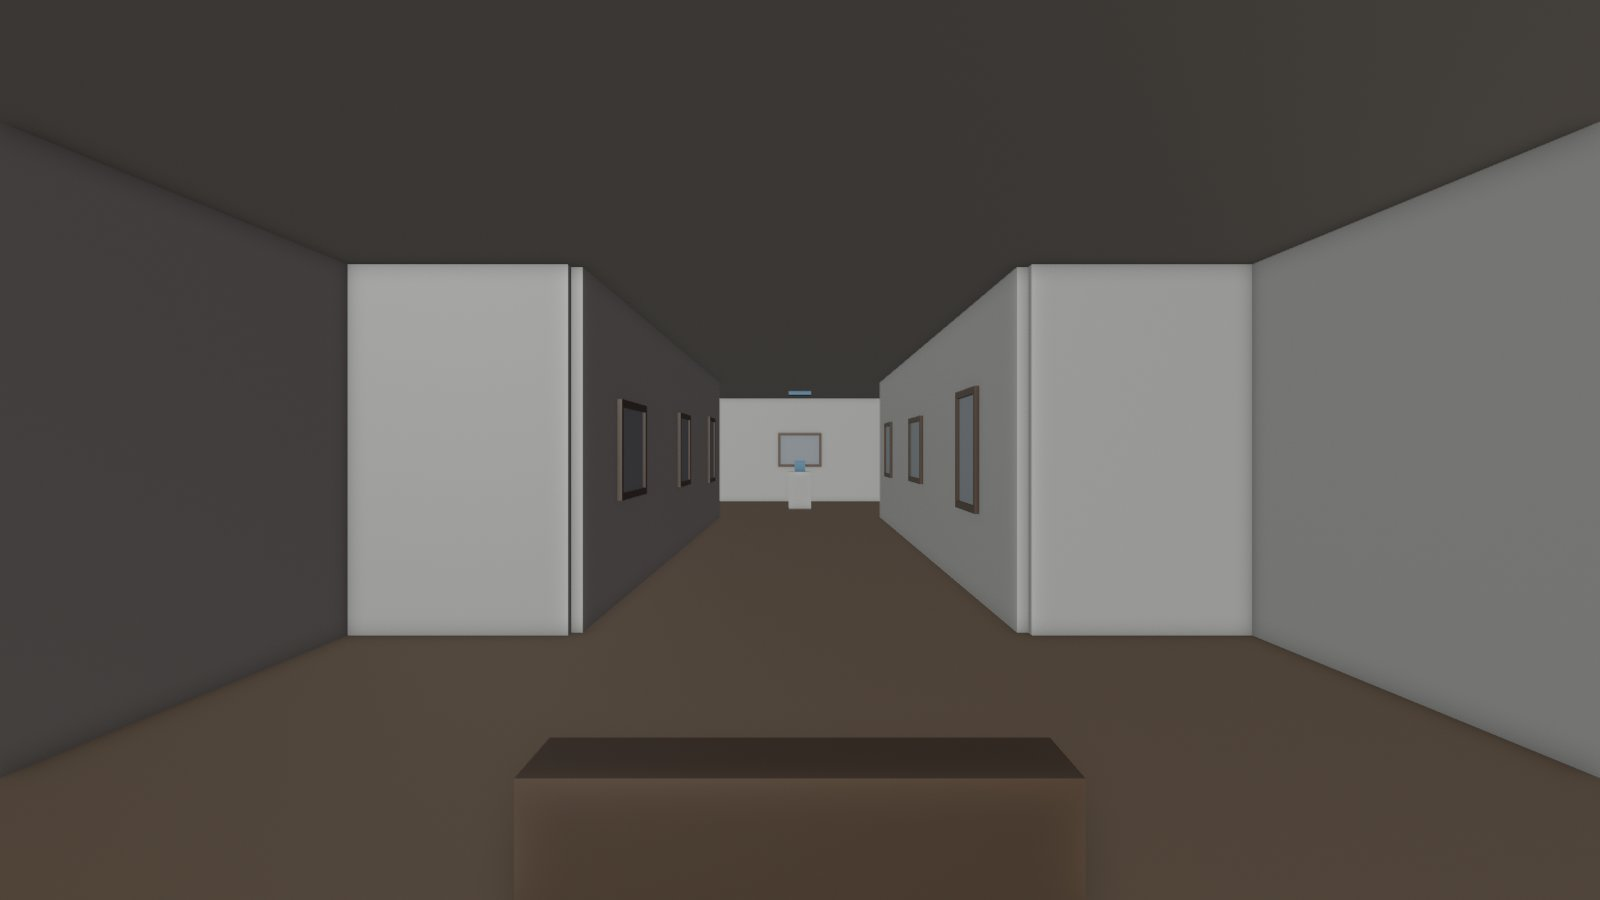
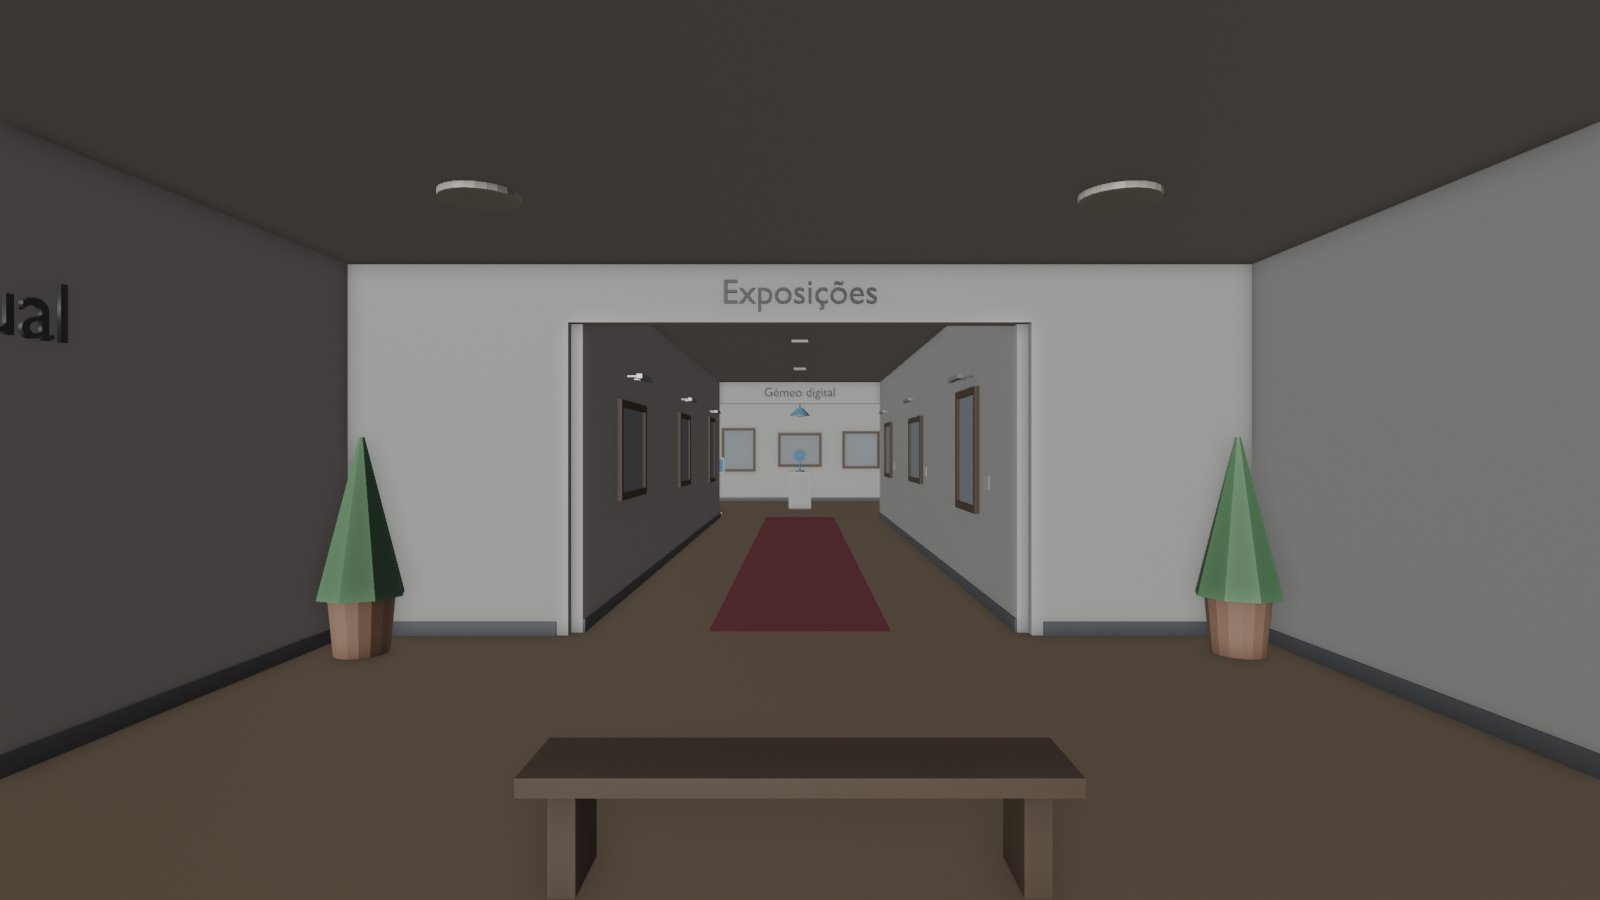
Detalhes do museu e zona do gémeo digital (T030, T031)
- Rodapés, aro da porta, lintéis com sinalética em relevo, título,
  receção, banco, plantas, luzes de teto, passadeira e, por quadro,
  luz de quadro e placa de legenda (filhos do módulo de corredor).
- Sala do gémeo: 3 molduras físicas, candeeiro, ventoinha, grelha de
  ventilação, sensor e terminal de controlo, objetos separados.
- UV em todas as meshes e materiais PBR simples (parte de T032).
- Planta com corte a 2,6 m e novo render da sala do gémeo.

diff --git a/blender/build_museum.py b/blender/build_museum.py
@@ -12,6 +12,7 @@ import math
 from pathlib import Path
 
 import bpy
+from mathutils import Matrix
 
 ROOT = Path(__file__).resolve().parent.parent  # __file__ é injetado por send_to_blender.py
 BLEND = ROOT / "blender" / "museum_master.blend"
@@ -46,16 +47,42 @@ def box(x0, x1, y0, y1, z0, z1):
     return v, f
 
 
-def mesh(name, boxes):
+def cyl(c0, c1, a0, a1, r0, r1=None, n=16, axis="z"):
+    """Cilindro/cone. axis z: centro (x=c0, y=c1), de z=a0 a a1. axis y: centro (x=c0, z=c1), de y=a0 a a1."""
+    r1 = r0 if r1 is None else max(r1, 0.005)
+    ring = [(math.cos(2 * math.pi * i / n), math.sin(2 * math.pi * i / n)) for i in range(n)]
+    v = [(c0 + r0 * c, c1 + r0 * s, a0) for c, s in ring] + [(c0 + r1 * c, c1 + r1 * s, a1) for c, s in ring]
+    f = [(i, (i + 1) % n, n + (i + 1) % n, n + i) for i in range(n)]
+    f += [tuple(range(n - 1, -1, -1)), tuple(range(n, 2 * n))]
+    if axis == "y":  # trocar y<->z espelha a geometria: inverter as faces para as normais ficarem para fora
+        v = [(x, z, y) for x, y, z in v]
+        f = [tuple(reversed(face)) for face in f]
+    return v, f
+
+
+def box_uv(m):
+    """UV por projeção na face dominante, 1 unidade UV = 1 m (texturas repetem à escala real)."""
+    uv = m.uv_layers.new(name="UVMap")
+    for poly in m.polygons:
+        ax = max(range(3), key=lambda i: abs(poly.normal[i]))
+        a, b = [i for i in range(3) if i != ax]
+        for li in poly.loop_indices:
+            co = m.vertices[m.loops[li].vertex_index].co
+            uv.data[li].uv = (co[a], co[b])
+
+
+def mesh(name, parts):
+    """parts: caixas (x0, x1, y0, y1, z0, z1) ou pares (verts, faces) já feitos, p. ex. de cyl()."""
     verts, faces = [], []
-    for b in boxes:
-        v, f = box(*b)
+    for p in parts:
+        v, f = p if len(p) == 2 else box(*p)
         n = len(verts)
         verts += v
         faces += [tuple(i + n for i in face) for face in f]
     m = bpy.data.meshes.new(name)
     m.from_pydata(verts, [], faces)
     m.validate()
+    box_uv(m)
     return m
 
 
@@ -70,12 +97,37 @@ def obj(name, data, coll, loc=(0, 0, 0), mat=None, parent=None):
     return o
 
 
-def material(name, rgb):
+def material(name, rgb, rough=0.7, metal=0.0, emit=0.0):
+    """PBR simples (Base Color/Roughness/Metallic/Emission), sem nós extra: passa tal e qual para o Unity."""
     m = bpy.data.materials.new(name)
     m.use_nodes = True
-    m.node_tree.nodes["Principled BSDF"].inputs["Base Color"].default_value = (*rgb, 1)
+    bsdf = m.node_tree.nodes["Principled BSDF"].inputs
+    bsdf["Base Color"].default_value = (*rgb, 1)
+    bsdf["Roughness"].default_value = rough
+    bsdf["Metallic"].default_value = metal
+    if emit:
+        bsdf["Emission Color"].default_value = (*rgb, 1)
+        bsdf["Emission Strength"].default_value = emit
     m.diffuse_color = (*rgb, 1)  # cor usada no viewport/Workbench
+    m.roughness, m.metallic = rough, metal
     return m
+
+
+def sign(name, body, loc, face, coll, mat, size=0.3):
+    """Texto em relevo (mesh, para ir no FBX) numa parede. face: direção para onde o texto olha ('-y', '+x', '-x')."""
+    cu = bpy.data.curves.new(name, "FONT")
+    cu.body, cu.size, cu.align_x, cu.align_y, cu.extrude = body, size, "CENTER", "CENTER", 0.01
+    tmp = bpy.data.objects.new(name, cu)
+    bpy.context.scene.collection.objects.link(tmp)
+    bpy.context.view_layer.update()
+    me = bpy.data.meshes.new_from_object(tmp.evaluated_get(bpy.context.evaluated_depsgraph_get()))
+    bpy.data.objects.remove(tmp)
+    bpy.data.curves.remove(cu)
+    rot_z = {"-y": 0, "+x": 90, "-x": -90}[face]
+    me.transform(Matrix.Rotation(math.radians(rot_z), 4, "Z") @ Matrix.Rotation(math.radians(90), 4, "X"))
+    me.name = name
+    box_uv(me)
+    return obj(name, me, coll, loc=loc, mat=mat)
 
 
 def wall_x(x, y0, y1, z0=0.0, z1=H):
@@ -169,9 +221,23 @@ def build():
         "ceiling": material("Ceiling", (0.95, 0.95, 0.95)),
         "frame": material("FrameWood", (0.18, 0.12, 0.08)),
         "photo": material("PhotoPlaceholder", (0.55, 0.6, 0.65)),
-        "twin": material("TwinDevice", (0.2, 0.45, 0.7)),
+        "twin": material("TwinDevice", (0.2, 0.45, 0.7), rough=0.4),
         "label": material("Label", (0.8, 0.1, 0.1)),
+        "skirting": material("Skirting", (0.22, 0.22, 0.24), rough=0.5),
+        "runner": material("Runner", (0.42, 0.1, 0.12), rough=0.9),
+        "lamp": material("LampEmit", (1.0, 0.95, 0.82), rough=0.3, emit=4.0),
+        "metal": material("Metal", (0.62, 0.63, 0.65), rough=0.3, metal=1.0),
+        "sign": material("Sign", (0.12, 0.12, 0.13), rough=0.4),
+        "plaque": material("Plaque", (0.93, 0.91, 0.86), rough=0.6),
+        "screen": material("ScreenEmit", (0.25, 0.55, 0.9), rough=0.2, emit=2.0),
+        "pot": material("Pot", (0.62, 0.36, 0.24)),
+        "plant": material("Plant", (0.16, 0.38, 0.17), rough=0.8),
     }
+    sk_h, sk_t = 0.12, 0.02  # rodapé: altura e espessura
+
+    def skirting(name, segs, coll, parent=None, loc=(0, 0, 0)):
+        """Rodapé: segs são retângulos (x0, x1, y0, y1) em planta, já encostados à face interior da parede."""
+        return obj(name, mesh(name, [(*s, 0, sk_h) for s in segs]), coll, loc=loc, mat=mats["skirting"], parent=parent)
     arch, frames, props, twin, notes, tmpl = (cols[k] for k in
                                               ("Architecture", "Frames", "Props", "DigitalTwin", "Annotations", "_Templates"))
 
@@ -186,11 +252,37 @@ def build():
     obj("Hall_Ceiling", mesh("Hall_Ceiling", [(-hx, hx, 0, HALL, H, H + 0.1)]), arch, mat=mats["ceiling"])
     obj("Hall_Walls", mesh("Hall_Walls", [
         *wall_with_gap(0, -hx - T / 2, hx + T / 2, DOOR_W, DOOR_H),
-        *wall_with_gap(HALL, -hx - T / 2, hx + T / 2, MOD_W),
+        *wall_with_gap(HALL, -hx - T / 2, hx + T / 2, MOD_W, H - 0.5),  # lintel marca a entrada nas exposições
         wall_x(-hx, 0, HALL), wall_x(hx, 0, HALL),
     ]), arch, mat=mats["wall"])
-    obj("Props_Bench", mesh("Props_Bench", [(-1.0, 1.0, HALL / 2 - 0.2, HALL / 2 + 0.2, 0, 0.45)]),
-        props, mat=mats["frame"])
+    ix, g = hx - T / 2, MOD_W / 2 + T / 2  # face interior das paredes laterais; fim das paredes do corredor
+    skirting("Hall_Skirting", [
+        (-ix, -DOOR_W / 2 - 0.1, T / 2, T / 2 + sk_t), (DOOR_W / 2 + 0.1, ix, T / 2, T / 2 + sk_t),
+        (-ix, -g, HALL - T / 2 - sk_t, HALL - T / 2), (g, ix, HALL - T / 2 - sk_t, HALL - T / 2),
+        (-ix, -ix + sk_t, T / 2, HALL - T / 2), (ix - sk_t, ix, T / 2, HALL - T / 2),
+    ], arch)
+    d = DOOR_W / 2
+    obj("Hall_DoorFrame", mesh("Hall_DoorFrame", [  # aro da porta, saliente dos dois lados da parede
+        (-d - 0.1, -d, -0.15, 0.15, 0, DOOR_H + 0.1), (d, d + 0.1, -0.15, 0.15, 0, DOOR_H + 0.1),
+        (-d - 0.1, d + 0.1, -0.15, 0.15, DOOR_H, DOOR_H + 0.1),
+    ]), arch, mat=mats["frame"])
+    obj("Hall_CeilingLights", mesh("Hall_CeilingLights", [
+        cyl(x, y, H - 0.04, H, 0.25, n=24) for x in (-2, 2) for y in (2, 6)
+    ]), arch, mat=mats["lamp"])
+    sign("Sign_Title", "Museu Virtual", (-ix + 0.015, HALL / 2, 2.3), "+x", props, mats["sign"], size=0.45)
+    sign("Sign_Exhibitions", "Exposições", (0, HALL - T / 2 - 0.015, H - 0.25), "-y", props, mats["sign"])
+    obj("Props_Bench", mesh("Props_Bench", [
+        (-1.0, 1.0, HALL / 2 - 0.2, HALL / 2 + 0.2, 0.38, 0.45),  # assento
+        (-0.9, -0.8, HALL / 2 - 0.15, HALL / 2 + 0.15, 0, 0.38), (0.8, 0.9, HALL / 2 - 0.15, HALL / 2 + 0.15, 0, 0.38),
+    ]), props, mat=mats["frame"])
+    obj("Props_Reception", mesh("Props_Reception", [
+        (1.8, 3.4, 1.6, 2.1, 0, 1.0), (1.75, 3.45, 1.5, 2.15, 1.0, 1.05),  # balcão + tampo saliente
+    ]), props, mat=mats["frame"])
+    for side, x in (("L", -ix + 0.45), ("R", ix - 0.45)):
+        pot = obj(f"Props_Plant_{side}", mesh(f"Props_Plant_{side}", [cyl(x, HALL - 0.7, 0, 0.45, 0.2, 0.24)]),
+                  props, mat=mats["pot"])
+        obj(f"Props_Plant_{side}_Leaves", mesh(f"Props_Plant_{side}_Leaves", [cyl(x, HALL - 0.7, 0.45, 1.7, 0.32, 0.02, n=8)]),
+            props, mat=mats["plant"], parent=pot)
 
     # Corredor modular: o módulo começa em y=0 local e acaba em y=MOD_L, por isso encaixa sem folgas.
     mx = MOD_W / 2
@@ -210,12 +302,26 @@ def build():
         m = obj(f"CorridorModule_{k + 1:02d}", module_mesh if k == 0 else module_mesh.copy(), arch,
                 loc=(0, HALL + k * MOD_L, 0))
         obj(f"{tag}_Ceiling", ceiling_mesh if k == 0 else ceiling_mesh.copy(), arch, parent=m)
+        # Detalhes do módulo (filhos, para irem no corridor_module.fbx); meshes próprias por causa do FBX.
+        wx = mx - T / 2
+        skirting(f"{tag}_Skirting", [(-wx, -wx + sk_t, 0, MOD_L), (wx - sk_t, wx, 0, MOD_L)], arch, parent=m)
+        obj(f"{tag}_Runner", mesh(f"{tag}_Runner", [(-0.8, 0.8, 0, MOD_L, 0, 0.008)]), arch, mat=mats["runner"], parent=m)
+        obj(f"{tag}_CeilingLight", mesh(f"{tag}_CeilingLight", [(-0.12, 0.12, 0.6, MOD_L - 0.6, H - 0.04, H)]),
+            arch, mat=mats["lamp"], parent=m)
         for side, x, rot in (("L", -mx + T / 2 + FRAME_D / 2, 90), ("R", mx - T / 2 - FRAME_D / 2, -90)):
             slot = obj(f"{tag}_Slot_{side}", None, frames, loc=(x, MOD_L / 2, EYE), parent=m)
             slot.empty_display_type, slot.empty_display_size = "ARROWS", 0.3
             slot.rotation_euler = (0, 0, math.radians(rot))  # -Y da moldura aponta para o centro do corredor
             slot["slot"] = f"{tag}_{side}"
             place_frame(templates[order[(2 * k + (side == "R")) % 3]], slot, frames, tag)
+            # Em coordenadas do slot: X ao longo da parede, -Y para o corredor, parede em y=+FRAME_D/2.
+            w = FRAME_D / 2
+            obj(f"{tag}_PictureLight_{side}", mesh(f"{tag}_PictureLight_{side}", [
+                (-0.3, 0.3, -0.16, -0.1, 0.78, 0.83),  # barra de luz
+                (-0.2, -0.17, -0.1, w, 0.8, 0.82), (0.17, 0.2, -0.1, w, 0.8, 0.82),  # braços até à parede
+            ]), frames, mat=mats["metal"], parent=slot)
+            obj(f"{tag}_Plaque_{side}", mesh(f"{tag}_Plaque_{side}", [(0.78, 1.0, w - 0.012, w, -0.4, -0.26)]),
+                frames, mat=mats["plaque"], parent=slot)
 
     # Sala do gémeo digital: estado da exposição física (luz, ventoinha, sensor, moldura real).
     y0 = HALL + N_MODULES * MOD_L
@@ -223,30 +329,59 @@ def build():
     obj("Twin_Floor", mesh("Twin_Floor", [(-tx, tx, y0, y0 + TWIN, -0.1, 0)]), arch, mat=mats["floor"])
     obj("Twin_Ceiling", mesh("Twin_Ceiling", [(-tx, tx, y0, y0 + TWIN, H, H + 0.1)]), arch, mat=mats["ceiling"])
     obj("Twin_Walls", mesh("Twin_Walls", [
-        *wall_with_gap(y0, -tx - T / 2, tx + T / 2, MOD_W),
+        *wall_with_gap(y0, -tx - T / 2, tx + T / 2, MOD_W, H - 0.5),
         wall_y(y0 + TWIN, -tx - T / 2, tx + T / 2),
         wall_x(-tx, y0, y0 + TWIN), wall_x(tx, y0, y0 + TWIN),
     ]), arch, mat=mats["wall"])
+    iw, back = tx - T / 2, y0 + TWIN - T / 2  # faces interiores: paredes laterais e parede do fundo
+    skirting("Twin_Skirting", [
+        (-iw, -g, y0 + T / 2, y0 + T / 2 + sk_t), (g, iw, y0 + T / 2, y0 + T / 2 + sk_t),
+        (-iw, iw, back - sk_t, back),
+        (-iw, -iw + sk_t, y0 + T / 2, back), (iw - sk_t, iw, y0 + T / 2, back),
+    ], arch)
+    sign("Sign_Twin", "Gémeo digital", (0, y0 - T / 2 - 0.015, H - 0.25), "-y", props, mats["sign"])
     cy = y0 + TWIN / 2
     obj("Twin_Pedestal", mesh("Twin_Pedestal", [(-0.3, 0.3, cy - 0.3, cy + 0.3, 0, 1.0)]), twin, mat=mats["wall"])
+    # Objetos separados e com nome fixo: o Unity liga cada um ao dispositivo pelo nome ou pelo device_id.
     devices = {
-        "Twin_Light": [(-0.3, 0.3, cy - 0.3, cy + 0.3, H - 0.1, H)],
-        "Twin_Fan": [(-0.15, 0.15, cy - 0.15, cy + 0.15, 1.0, 1.3)],
-        "Twin_Sensor": [(tx - T / 2 - 0.05, tx - T / 2, cy - 0.06, cy + 0.06, 1.4, 1.52)],
+        "Twin_Light": [cyl(0, cy, H - 0.45, H, 0.015),                       # haste
+                       cyl(0, cy, H - 0.65, H - 0.45, 0.28, 0.08, n=24)],     # abajur
+        "Twin_Fan": [cyl(0, cy, 1.0, 1.04, 0.12, n=24),                       # base no pedestal
+                     cyl(0, cy, 1.04, 1.32, 0.02),                            # coluna
+                     cyl(0, 1.45, cy - 0.04, cy + 0.04, 0.17, n=24, axis="y"),  # grelha, virada para a entrada
+                     cyl(0, 1.45, cy - 0.07, cy - 0.04, 0.04, axis="y")],     # cubo
+        "Twin_Sensor": [(iw - 0.05, iw, cy + 1.5, cy + 1.62, 1.4, 1.52)],
     }
-    for name, boxes in devices.items():
-        o = obj(name, mesh(name, boxes), twin, mat=mats["twin"])
+    for name, parts in devices.items():
+        o = obj(name, mesh(name, parts), twin, mat=mats["twin"])
         o["device_id"] = DEVICES[name]
-    phys = obj("Twin_PhysicalFrame_Slot", None, twin, loc=(0, y0 + TWIN - T / 2 - FRAME_D / 2, EYE))
-    phys.empty_display_type = "ARROWS"
-    place_frame(templates["Landscape"], phys, twin, "Twin")
+    obj("Twin_Light_Bulb", mesh("Twin_Light_Bulb", [cyl(0, cy, H - 0.67, H - 0.65, 0.22, n=24)]),
+        twin, mat=mats["lamp"], parent=bpy.data.objects["Twin_Light"])
+    obj("Twin_VentGrille", mesh("Twin_VentGrille", [
+        (iw - 0.03, iw, cy - 0.45, cy + 0.45, 2.3, 2.34), (iw - 0.03, iw, cy - 0.45, cy + 0.45, 2.76, 2.8),
+        (iw - 0.03, iw, cy - 0.45, cy - 0.41, 2.34, 2.76), (iw - 0.03, iw, cy + 0.41, cy + 0.45, 2.34, 2.76),
+        *[(iw - 0.05, iw, cy - 0.41, cy + 0.41, z, z + 0.02) for z in (2.38, 2.46, 2.54, 2.62, 2.7)],  # lâminas
+    ]), twin, mat=mats["metal"])
+    tyy = y0 + 1.3  # terminal de controlo à entrada da sala, virado para quem entra
+    terminal = obj("Twin_Terminal", mesh("Twin_Terminal", [
+        (-2.45, -1.95, tyy - 0.2, tyy + 0.2, 0, 0.04),        # base
+        (-2.23, -2.17, tyy - 0.03, tyy + 0.03, 0.04, 1.0),    # coluna
+        (-2.5, -1.9, tyy - 0.04, tyy + 0.04, 1.0, 1.4),       # caixa do ecrã
+    ]), twin, mat=mats["metal"])
+    obj("Twin_Terminal_Screen", mesh("Twin_Terminal_Screen", [(-2.46, -1.94, tyy - 0.05, tyy - 0.04, 1.04, 1.36)]),
+        twin, mat=mats["screen"], parent=terminal)
+    # Três molduras da exposição física na parede do fundo.
+    for i, (variant, x) in enumerate((("Portrait", -1.9), ("Landscape", 0.0), ("Square", 1.9)), 1):
+        phys = obj(f"Twin_PhysicalFrame_{i}", None, twin, loc=(x, back - FRAME_D / 2, EYE))
+        phys.empty_display_type = "ARROWS"
+        place_frame(templates[variant], phys, twin, f"Twin{i}")
 
     # Anotações: só para a planta e para validar a escala; não vão para o FBX.
     text("Entrada", (0, HALL / 2 + 1.5), notes, mats["label"])
     text("Corredor modular", (0, HALL + N_MODULES * MOD_L / 2), notes, mats["label"])
     text("Gémeo digital", (1.8, y0 + TWIN / 2), notes, mats["label"])
     obj("Visitor_1m75", mesh("Visitor_1m75", [(-0.25, 0.25, -0.15, 0.15, 0, 1.75)]), notes,
-        loc=(1.5, 2.0, 0), mat=mats["label"])
+        loc=(-1.5, 2.0, 0), mat=mats["label"])
     return cols, y0 + TWIN
 
 
@@ -309,6 +444,7 @@ def main():
     # Planta: câmara ortográfica de cima, rodada para o percurso ficar na horizontal.
     plan = bpy.data.cameras.new("Plan")
     plan.type, plan.ortho_scale = "ORTHO", length + 1.0
+    plan.clip_start = 30 - 2.6  # corte horizontal a 2,6 m, como numa planta: lintéis e tetos não tapam as passagens
     render(plan, (0, length / 2, 30), (0, 0, math.radians(90)), DOCS / "planta.jpg", (2200, 800),
            hide=lambda o: "Ceiling" in o.name or in_coll(o, "_Templates"))
     # Vista do visitante à entrada, a olhar para o corredor.
@@ -316,6 +452,10 @@ def main():
     view.lens = 18
     render(view, (0, 1.0, EYE), (math.radians(90), 0, 0), DOCS / "blockout.jpg", (1600, 900),
            hide=lambda o: in_coll(o, "Annotations", "_Templates"))
+    twin_view = bpy.data.cameras.new("TwinView")
+    twin_view.lens = 16
+    render(twin_view, (1.2, length - TWIN + 0.6, EYE), (math.radians(90), 0, math.radians(8)), DOCS / "gemeo.jpg",
+           (1600, 900), hide=lambda o: in_coll(o, "Annotations", "_Templates"))
 
     museum = [o for o in bpy.data.objects if not in_coll(o, "Annotations", "_Templates")]
     export(EXPORT / "museum_blockout.fbx", museum)

diff --git a/museu_virtual_checklist_atualizada.md b/museu_virtual_checklist_atualizada.md
@@ -1,13 +1,14 @@
 # Museu Virtual Pessoal — Checklist (atualizada)
 
-Exportado em 18/11/2026, 16:10:33. Concluídas: 16/154 (em curso: 6). Última atualização: 18/11/2026.
+Exportado em 18/11/2026, 16:10:33. Concluídas: 18/154 (em curso: 7). Última atualização: 18/11/2026.
 PODES FUGIR AO DESIGN FEITO PELO FIGMA, NAO TEM DE SER IGUAL
 > Prioridade P0 = bloqueante; P1 = importante; P2 = extra.
 
 ## Registo de progresso
 
 ### 2026-11-26
-- **Feito:** T024, T025, T026, T027, T028, T029.
+- **Feito:** T024, T025, T026, T027, T028, T029, T030, T031.
+- **Em curso:** T032 (UVs e materiais PBR simples feitos; faltam texturas).
 - **Blender:** controlado pelo addon "MCP for Blender" (porta 9876, só localhost). O museu é gerado por `blender/build_museum.py` (enviado com `blender/send_to_blender.py`), por isso qualquer elemento da equipa o pode refazer. `.blend` e `.fbx` vão para o Git LFS.
 
 ### 2026-11-25
@@ -159,18 +160,21 @@ PODES FUGIR AO DESIGN FEITO PELO FIGMA, NAO TEM DE SER IGUAL
   - **Aceitação:** Três proporções verificadas.
   - **Prazo:** 2026-11-29
   - **Feito (2026-11-26):** Três variantes com área interior 1,2×0,9 (horizontal 4:3), 0,9×1,2 (vertical) e 1,0×1,0 (quadrado); propriedade `aspect` em cada uma. Outras proporções: letterbox no Unity. Exports `blender/export/frame_{landscape,portrait,square}.fbx`.
-- [ ] **T030 · RVA · P1** — Blender: criar elementos secundários
+- [x] **T030 · RVA · P1** — Blender: criar elementos secundários
   - **Passos:** Modelar plintos, bancos, sinalética, rodapés e portas só se acrescentarem legibilidade, evitando detalhe excessivo.
   - **Aceitação:** Ambiente reconhecível e leve.
   - **Prazo:** 2026-11-29
-- [ ] **T031 · RVA · P0** — Blender: modelar zona física do gémeo
+  - **Feito (2026-11-26):** Rodapés em todas as salas, aro da porta, lintéis com sinalética em relevo ("Exposições", "Gémeo digital") e título "Museu Virtual" na entrada, balcão de receção, banco, 2 vasos com plantas, luzes de teto (discos na entrada, faixa em cada módulo), passadeira no corredor e, por quadro, luz de quadro e placa de legenda. Detalhes do corredor são filhos do módulo, por isso vão no `corridor_module.fbx`. Total: 91 objetos, ~13 mil vértices (a maior parte é o texto).
+- [x] **T031 · RVA · P0** — Blender: modelar zona física do gémeo
   - **Passos:** Criar área com 2–3 molduras, candeeiro/LED, grelha de ventilação ou ventoinha e terminal de controlo.
   - **Aceitação:** Objetos separados e identificáveis.
   - **Prazo:** 2026-11-29
+  - **Feito (2026-11-26):** Sala 6×6 m com 3 molduras físicas na parede do fundo (vertical, horizontal, quadrada; slots `Twin_PhysicalFrame_1..3`), candeeiro suspenso `Twin_Light` (+ `Twin_Light_Bulb`), ventoinha `Twin_Fan` no pedestal, grelha de ventilação `Twin_VentGrille`, sensor `Twin_Sensor` e terminal de controlo `Twin_Terminal` (+ ecrã). Luz, ventoinha e sensor têm `device_id` do contrato. Render: `docs/blender/gemeo.jpg`.
 - [ ] **T032 · RVA · P0** — Blender: UV unwrap e materiais básicos
   - **Passos:** Criar UVs consistentes, materiais simples PBR com Base Color/Roughness, texturas de baixa resolução e sem nós proprietários essenciais.
   - **Aceitação:** Materiais reproduzíveis no Unity.
   - **Prazo:** 2026-11-29
+  - **Em curso (2026-11-26):** UV em todas as meshes (projeção por face, 1 UV = 1 m; fotografias com UV 0..1) e materiais Principled só com Base Color/Roughness/Metallic/Emission. **Falta:** texturas de baixa resolução (parede, chão) e confirmar no Unity.
 - [ ] **T033 · RVA · P0** — Blender: corrigir transforms e pivôs
   - **Passos:** Aplicar scale/rotation aos objetos exportados; colocar pivot útil para interações; rever normais, faces duplicadas e dimensões.
   - **Aceitação:** Sem modelos invertidos ou desescalados.

diff --git a/blender/README.md b/blender/README.md
@@ -11,7 +11,9 @@ Museu em blockout (RVA, T024–T029), gerado por script para ser reproduzível.
 | `export/corridor_module.fbx` | Módulo de corredor de 4 m com 2 slots de quadro (expansão modular) |
 | `export/frame_{landscape,portrait,square}.fbx` | Molduras; a fotografia é o filho `Photo_*` (UV 0..1) |
 
-Renders: `docs/blender/planta.jpg` (planta) e `docs/blender/blockout.jpg` (vista à entrada).
+Renders: `docs/blender/planta.jpg` (planta, corte a 2,6 m), `docs/blender/blockout.jpg` (vista à entrada) e `docs/blender/gemeo.jpg` (sala do gémeo).
+
+Detalhes: rodapés, aro da porta, sinalética em relevo, receção, banco, plantas, luzes de teto, passadeira, luz e placa por quadro; sala do gémeo com 3 molduras físicas, candeeiro, ventoinha, grelha de ventilação, sensor e terminal. Materiais PBR simples (sem texturas) e UV em todas as meshes.
 
 ## Refazer
 
